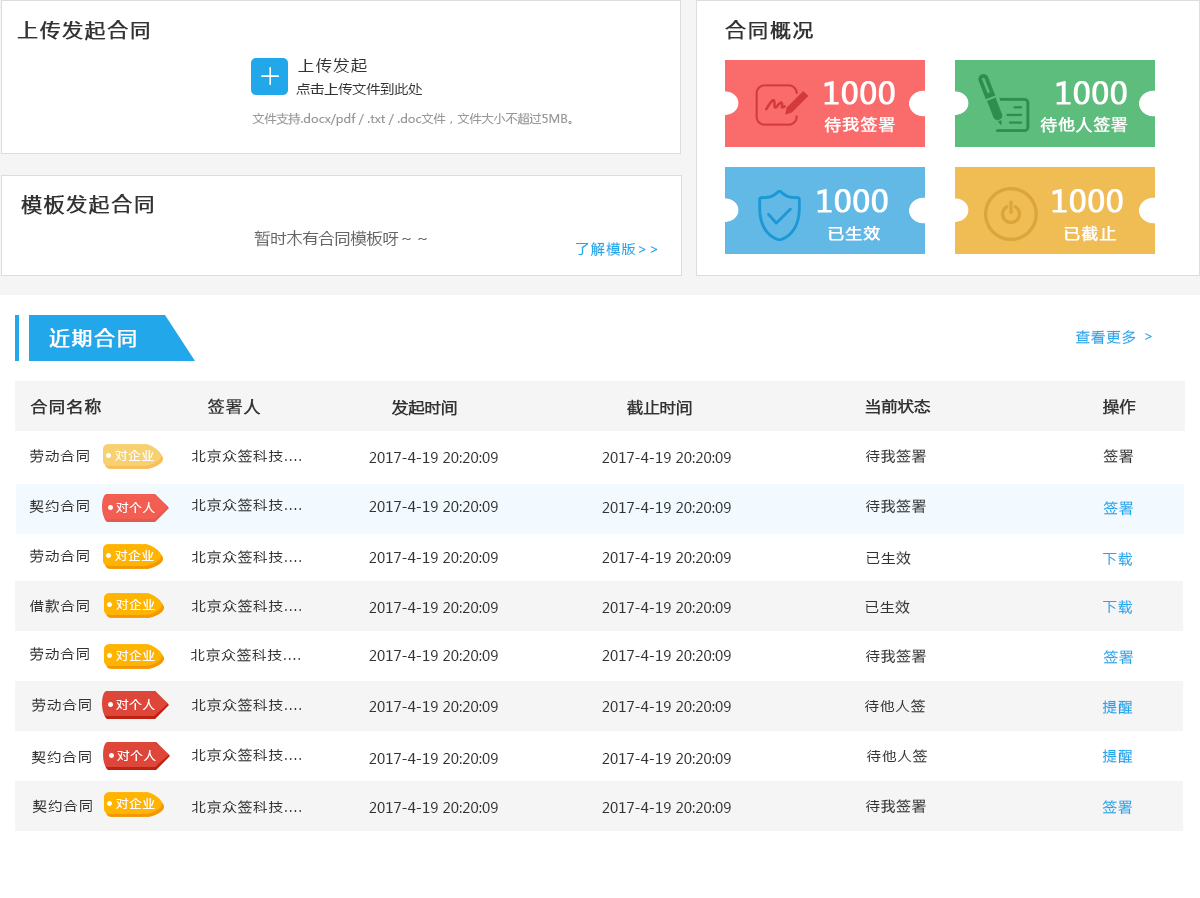
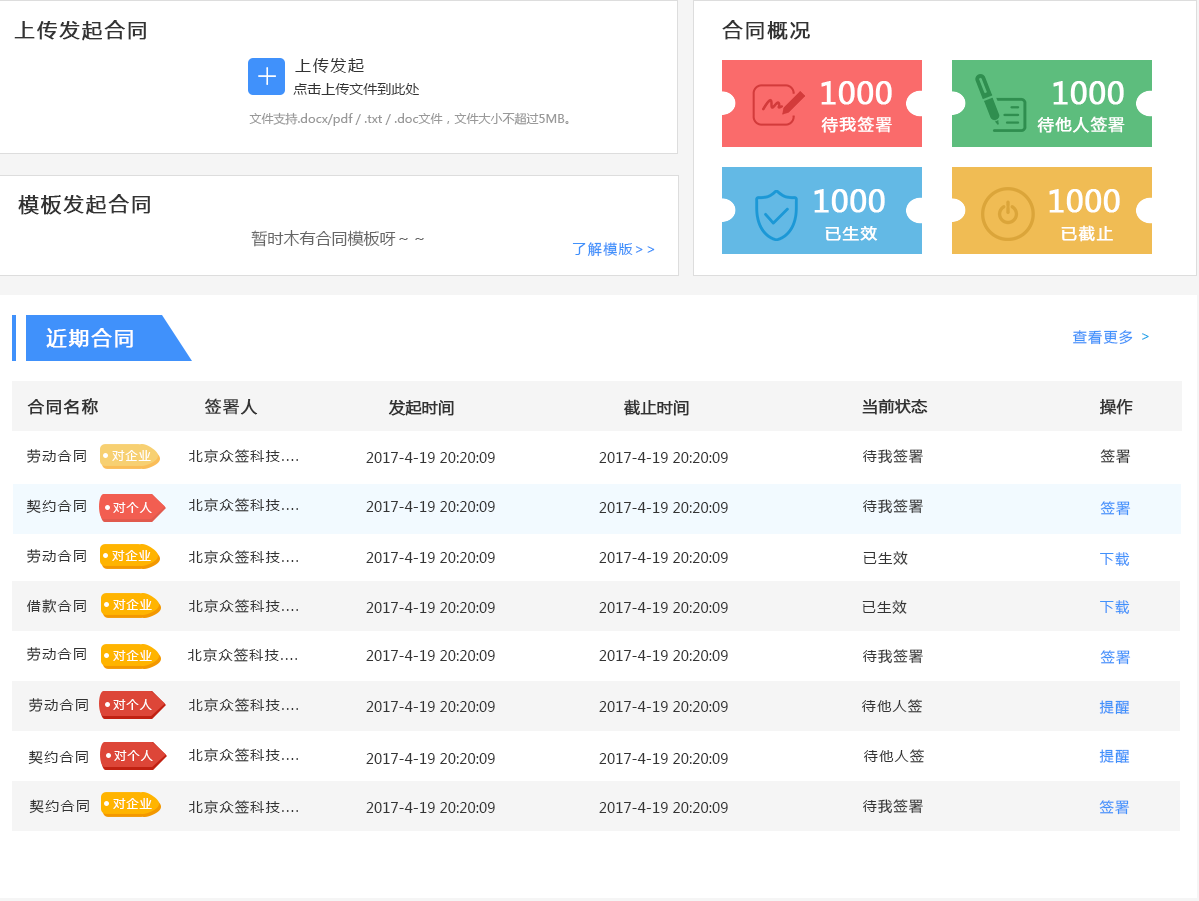
demo-homePage.png

diff --git a/src/demo/DemoHome.vue b/src/demo/DemoHome.vue
@@ -81,9 +81,11 @@ export default {
 		left 0
 	.select-experience
 		width 1063px
-		hetght 697px
+		height 697px
 		margin 150px auto
-		position relative
+		position absolute
+		left 50%
+		transform translate(-50%)
 	.home-character
 		text-align center
 		position absolute
@@ -91,11 +93,11 @@ export default {
 		left 297.5px
 		.welcome
 			font-size 32px
-			color #22a7ea
+			color #4091fb
 			margin-top 36px;
 		.upgrade
 			margin-top 32px
-			color #22a7ea
+			color #4091fb
 			font-size 18px
 			color #666666
 			.company
@@ -112,17 +114,17 @@ export default {
 				width 209px
 				height 47px
 				display inline-block
-				border 1px solid #22a7ea
+				border 1px solid #4091fb
 				border-radius 30px
 				text-align center
-				color #22a7ea
+				color #4091fb
 				background-color #ffffff
 				cursor pointer
 			.experience
 				font-size 22px
 				color #ffffff;
 				border none 
-				background-color #22a7ea
+				background-color #4091fb
 				width 209px
 				height 47px
 				display inline-block
@@ -142,7 +144,7 @@ export default {
 			line-height 42px
 			text-align center
 			background-color #fff
-			color #22a7ea
+			color #4091fb
 			border-radius 5px
 			position absolute
 			top -22px
@@ -190,7 +192,7 @@ export default {
 						margin-left 12px
 						border-radius 5px
 						background-color #ffffff
-						color #39bbfd
+						color #4091fb
 						border none
 						font-size 16px
 						cursor pointer
